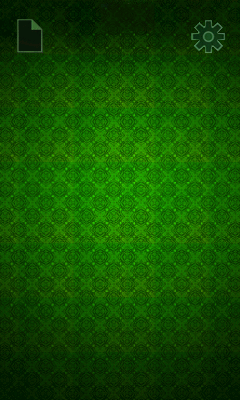
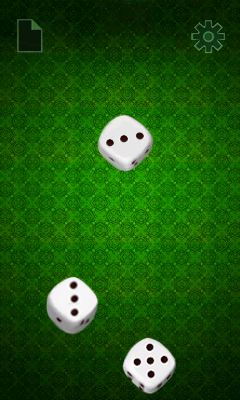
fix: implement game util GetResName slot 36 (#170)
The dice game B/动感骰子.CBE loads its 18 dice-frame images through
game-util manager slot 36 with ("s%d.png", index) — the firmware
GetResName(format, index) contract that formats the resource name and
hands back a pointer for the caller's id-by-name lookup. The host fell
through to a zero return, so every lookup resolved to id -1, the
guest's face table stayed all 0xFFFF and each die decoded to a NULL
image: the desktop rendered the felt table but no dice ever appeared
or rolled.

Implement the slot: format the pattern with the index and return a
pointer into a 16x256-byte round-robin scratch ring whose pointers
survive save states. Add two regression tests covering the formatted
name, the id lookup it feeds and ring reuse.

Changed region(s): [[0.4083, 0.27, 0.6417, 0.45], [0.175, 0.69, 0.4083, 0.84], [0.4958, 0.84, 0.7292, 0.99]]

diff --git a/crates/coolbaremu-core/src/machine/services/game.rs b/crates/coolbaremu-core/src/machine/services/game.rs
@@ -2247,12 +2247,63 @@ impl CoolbarMachine {
                 self.register(2),
                 self.register(3),
             ))),
+            36 => {
+                // Firmware `GetResName(const char *format, int index)`: the
+                // caller passes a printf-style resource-name pattern such as
+                // "s%d.png" plus a 1-based index and receives a pointer to
+                // the formatted name, which it feeds straight into the
+                // id-by-name lookup (slot 14). Returning zero made every
+                // formatted lookup resolve to id -1, so the dice game's 18
+                // frame images all decoded to NULL and its desktop never
+                // showed a die.
+                let pattern_address = self.register(0);
+                let index = self.register(1);
+                let pattern = self.read_c_bytes(pattern_address, 256);
+                let index_text = index.to_string();
+                // Substitute every %d with the index, printf-style.
+                let mut bytes = Vec::with_capacity(pattern.len() + index_text.len());
+                let mut cursor = 0;
+                while cursor + 2 <= pattern.len() {
+                    if pattern[cursor] == b'%' && pattern[cursor + 1] == b'd' {
+                        bytes.extend_from_slice(index_text.as_bytes());
+                        cursor += 2;
+                    } else {
+                        bytes.push(pattern[cursor]);
+                        cursor += 1;
+                    }
+                }
+                bytes.extend_from_slice(&pattern[cursor.min(pattern.len())..]);
+                let pointer = self.scratch_formatted_name(&bytes);
+                self.set_result(pointer);
+            }
             37 => {
                 let result = self.storage_date();
                 self.set_result(result);
             }
             _ => self.set_result(0),
         }
+    }
+
+    /// Backing store for the formatted-resource-name service: a small ring
+    /// of NUL-terminated scratch buffers whose pointers stay valid until the
+    /// ring wraps, mirroring the firmware's static name buffers.
+    fn scratch_formatted_name(&mut self, bytes: &[u8]) -> u32 {
+        const SLOTS: usize = 16;
+        const CAPACITY: usize = 256;
+        if self.formatted_name_buffers.is_empty() {
+            let mut buffers = Vec::with_capacity(SLOTS);
+            for _ in 0..SLOTS {
+                buffers.push(self.allocate(CAPACITY as u32));
+            }
+            self.formatted_name_buffers = buffers;
+        }
+        let slot = self.formatted_name_cursor % SLOTS;
+        self.formatted_name_cursor = self.formatted_name_cursor.wrapping_add(1);
+        let address = self.formatted_name_buffers[slot];
+        let length = bytes.len().min(CAPACITY - 1);
+        self.memory.write_bytes(address, &bytes[..length]);
+        self.memory.w8(address + length as u32, 0);
+        address
     }
 
     /// Firmware `Storage_Date(char *name, u8 *buffer, int size, bool write,
@@ -2348,6 +2399,59 @@ mod tests {
         machine.set_user_register(1, right);
         machine.handle_game_util_service(18);
         assert_eq!(machine.register(0), 1);
+    }
+
+    #[test]
+    fn game_util_formatted_name_service_feeds_the_resource_id_lookup() {
+        use crate::machine::packages::HostResource;
+        use crate::machine::{CoolbarMachine, SERVICE_BASE, TABLE_STRIDE};
+        let mut machine = CoolbarMachine::new_blank_for_tests();
+        machine.resources.push(HostResource {
+            name: "s3.png".into(),
+            data: vec![1, 2, 3],
+        });
+        machine.resources.push(HostResource {
+            name: "s12.png".into(),
+            data: vec![4, 5],
+        });
+        let pattern = machine.allocate(16);
+        machine.memory.write_bytes(pattern, b"s%d.png\0");
+        let service = SERVICE_BASE + TABLE_STRIDE * 10 + 36 * 4;
+        machine
+            .invoke_callback(service, pattern, 3, 0, 1000)
+            .unwrap();
+        let name = machine.register(0);
+        assert_ne!(name, 0);
+        assert_eq!(machine.read_c_string(name, 256), "s3.png");
+        assert_eq!(machine.resource_id_by_name(name), Some(0));
+        // A second call must hand out a fresh buffer while the previous one
+        // stays intact (ring of 16, the guest reads the name immediately).
+        machine
+            .invoke_callback(service, pattern, 12, 0, 1000)
+            .unwrap();
+        let second = machine.register(0);
+        assert_ne!(second, name);
+        assert_eq!(machine.read_c_string(second, 256), "s12.png");
+        assert_eq!(machine.resource_id_by_name(second), Some(1));
+        assert_eq!(machine.read_c_string(name, 256), "s3.png");
+    }
+
+    #[test]
+    fn game_util_formatted_name_service_leaves_non_pattern_text_intact() {
+        use crate::machine::{CoolbarMachine, SERVICE_BASE, TABLE_STRIDE};
+        let mut machine = CoolbarMachine::new_blank_for_tests();
+        let pattern = machine.allocate(32);
+        machine.memory.write_bytes(pattern, b"fixed.png\0");
+        machine
+            .invoke_callback(
+                SERVICE_BASE + TABLE_STRIDE * 10 + 36 * 4,
+                pattern,
+                7,
+                0,
+                1000,
+            )
+            .unwrap();
+        assert_eq!(machine.read_c_string(machine.register(0), 256), "fixed.png");
     }
 
     #[test]

diff --git a/crates/coolbaremu-core/src/machine/mod.rs b/crates/coolbaremu-core/src/machine/mod.rs
@@ -744,6 +744,16 @@ pub struct CoolbarMachine {
     /// Polls already served from the current frame's 100 ms tick window.
     #[serde(skip, default)]
     tick_polls: u32,
+    /// Round-robin scratch buffers backing the formatted-resource-name
+    /// service (game util slot 36). The firmware hands callers a name
+    /// pointer that stays valid until the next call; the guest consumes it
+    /// immediately, so a small reused ring matches that contract without
+    /// leaking a buffer per call.
+    #[serde(default)]
+    formatted_name_buffers: Vec<u32>,
+    /// Next `formatted_name_buffers` slot to hand out.
+    #[serde(default)]
+    formatted_name_cursor: usize,
     last_pc: u32,
     recent_pcs: VecDeque<u32>,
     /// Recent non-fallthrough control transfers (from, to), newest last.
@@ -942,6 +952,8 @@ impl CoolbarMachine {
             frame_count: 0,
             tick_poll_frame: 0,
             tick_polls: 0,
+            formatted_name_buffers: Vec::new(),
+            formatted_name_cursor: 0,
             last_pc: 0,
             recent_pcs: VecDeque::with_capacity(32),
             recent_branches: VecDeque::with_capacity(16),
@@ -2024,6 +2036,8 @@ impl CoolbarMachine {
             frame_count: 0,
             tick_poll_frame: 0,
             tick_polls: 0,
+            formatted_name_buffers: Vec::new(),
+            formatted_name_cursor: 0,
             last_pc: 0,
             recent_pcs: VecDeque::new(),
             recent_branches: VecDeque::new(),

diff --git a/docs/Game-Compatibility.md b/docs/Game-Compatibility.md
@@ -72,6 +72,13 @@ Ninja Jump (B group, row 22) never spawned an enemy or obstacle because the
 firmware rand service returned a 15-bit value while the guest's wave generator
 scales it by 1/2^31 in soft-float — the wave pick always truncated to the empty
 wave; the rand now spans the full 31-bit range and the core loop is verified.
+Dynamic Dice (B group, row 10) drew an empty table: game-util slot 36
+(`GetResName(format, index)`) returned 0, so the guest's formatted-name chains
+resolved every `sN.png` frame image to id −1, the 18-entry face table stayed at
+−1 and each die decoded to a NULL image. The slot now formats the resource name
+into a scratch buffer and returns it, and the boot throw, tap-to-bet throws on
+the lower-left/lower-right regions, the chip total, the 历史记录 records and the
+full settings page are verified (issue #170).
 
 ## Summary
 
@@ -98,6 +105,9 @@ tutorial overlay and battle are checked: tiles select, units are bought (gold
 180→145) and placed, and the wave counter runs to 2/20 with hearts 20→13.
 Zombie Master (recommended variant) title/menu, touch selection, help text and
 return navigation are checked with its supplied companion resources.
+Dynamic Dice's tap-to-bet throws on both regions, roll totals on the chip
+counter, 历史记录 records and close, the native exit dialog and the settings
+page (toggles, dice count, background selection, dice preview) are checked.
 1943 V101 reaches aircraft/equipment selection and battle through local point-play
 billing simulation. War Chess V101 displays the same local receipt; its battle
 path remains unverified. Flying Eagle V101 reaches its introduction through local
@@ -269,7 +279,7 @@ not provide the original server's content or a real carrier payment service.
 | 7 | `B/僵尸先生.CBE` | 400×240 | <img src="images/B/僵尸先生.png" width="120" alt="僵尸先生 idle frame"> | No known requirement | Ready | Root cause fixed: the little-endian installer hands the firmware UCS2-LE paths (`XX 00` per unit); `read_file_path` decoded them as single-byte GBK and stopped at the NUL after the leading `.`, so every open/mkdir targeted `.` and the installer wrote 0 files and halted. Now the encoding is detected per string (`path_units_are_ucs2_le`) and decoded via `read_ucs2_le_string`; BE and single-byte GBK paths are unchanged. `virtual_file_count` goes 2→342, the game reaches the title screen and the battle loads with the tutorial "点击向日葵卡片" visible (idle 200-frame capture stays Ready). Remaining gap: battle-screen touch input (seed cards / lawn) is not yet registered — tracked under issue #167; the byte-wise DF_strcmp fix for #89/#88 leaves this title's 120-frame capture unchanged |
 | 8 | `B/割绳子.CBE` | 240×400 | <img src="images/B/割绳子.png" width="120" alt="割绳子 idle frame"> | No known requirement | Ready | Playable at the default 100M instructions/frame budget: the ARMv5 CLZ fix laid out the whole 4×5 level-select grid (0/60 star counter, back button), a tap on the first level tile runs a legitimate ~35.4M-instruction loading frame — the guest draws ten wipe steps of full-screen quadrant blits inside one screen callback while loading the level — and reaches 1-1, a pointer drag across the rope cuts it, the candy falls through all three stars into Om Nom, and the 太棒了! settlement, 下一关 into the two-rope 1-2 and the in-game menu respond; the 20M per-frame capture budget was too tight for that loading frame (issue #168) |
 | 9 | `B/割绳子冬季版.CBE` | 240×400 | <img src="images/B/割绳子冬季版.png" width="120" alt="割绳子冬季版 idle frame"> | No known requirement | Ready | Playable at the default 100M instructions/frame budget: the ARMv5 CLZ fix laid out the whole 4×5 level-select grid, a tap on the first tile runs a legitimate ~35.0M-instruction loading frame (the same wipe-driven loading screen as 割绳子) and reaches the winter 1-1, two rope cuts (diagonal, then vertical) drop the candy through the stars into Om Nom, and the 精彩! settlement with the 新记录 stamp and the menu respond; the 20M per-frame capture budget was too tight for that loading frame (issue #169) |
-| 10 | `B/动感骰子.CBE` | 240×400 | <img src="images/B/动感骰子.png" width="120" alt="动感骰子 idle frame"> | No known requirement | Ready | The native exit dialog cancels and the gear opens settings with a dice preview, but returning still leaves an empty table and no dice or roll result by 580 frames (issue #170) |
+| 10 | `B/动感骰子.CBE` | 240×400 | <img src="images/B/动感骰子.png" width="120" alt="动感骰子 idle frame"> | No known requirement | Ready | Playable: the desktop draws the felt table with three dice that idle-wobble after the boot throw, a tap on the lower-left or lower-right betting region throws the dice (the tap position picks the bet side, and the dice fly up, tumble and settle), the chip counter top-left shows the roll total, each player throw is recorded in the 历史记录 page (top-left icon) with its total, the native exit dialog cancels, and the gear opens settings with working 音效控制/手机震动 toggles, dice count −/+ (3→5 renders five dice), background selection and a large dice preview. Root cause of the empty table: game-util slot 36 (`GetResName(format, index)`) returned 0, so the guest's formatted-name chains resolved every `sN.png` frame image to id −1 and all 18 dice frames decoded to NULL (issue #170) |
 | 11 | `B/吸血鬼猎人.CBE` | 400×240 | <img src="images/B/吸血鬼猎人.png" width="120" alt="吸血鬼猎人 idle frame"> | No known requirement | Ready | Battle loads with UI, background and turret; firing consumes ammo (00500→00477) and the lamp glow plus ground shadows now render with smooth alpha instead of hard-edged rectangles and black squares (issue #171); direction holds, continued firing and the return-to-menu dialog were replayed headlessly, complete enemy combat still unverified |
 | 12 | `B/在线书城.CBE` | 240×400 | <img src="images/B/在线书城.png" width="120" alt="在线书城 offline error prompt"> | Required | Halted | Offline failure prompt and normal timed exit verified; scrolling/font differences remain, online reading unverified |
 | 13 | `B/在线音乐.CBE` | 240×400 | <img src="images/B/在线音乐.png" width="120" alt="在线音乐 idle frame"> | Required | Ready | Search controls, toolbars and add prompt render; prompt scrolls with current font metrics; online operation unverified |
